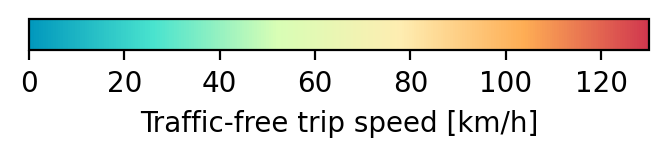
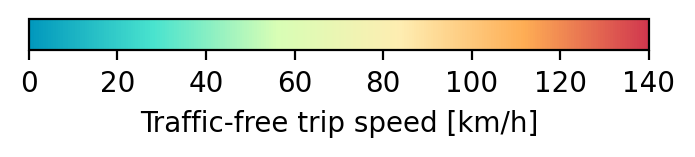
chore: update mobility data AQ4

diff --git a/app/src/config/gtif.js b/app/src/config/gtif.js
@@ -1118,64 +1118,7 @@ export const globalIndicators = [
         lastColorCode: null,
         aoi: null,
         aoiID: 'AT',
-        time: [
-          '2021-07-05T00:00:00', '2021-07-05T01:00:00', '2021-07-05T02:00:00',
-          '2021-07-05T03:00:00', '2021-07-05T04:00:00', '2021-07-05T05:00:00',
-          '2021-07-05T06:00:00', '2021-07-05T07:00:00', '2021-07-05T08:00:00',
-          '2021-07-05T09:00:00', '2021-07-05T10:00:00', '2021-07-05T11:00:00',
-          '2021-07-05T12:00:00', '2021-07-05T13:00:00', '2021-07-05T14:00:00',
-          '2021-07-05T15:00:00', '2021-07-05T16:00:00', '2021-07-05T17:00:00',
-          '2021-07-05T18:00:00', '2021-07-05T19:00:00', '2021-07-05T20:00:00',
-          '2021-07-05T21:00:00', '2021-07-05T22:00:00', '2021-07-05T23:00:00',
-          '2021-07-06T00:00:00', '2021-07-06T01:00:00', '2021-07-06T02:00:00',
-          '2021-07-06T03:00:00', '2021-07-06T04:00:00', '2021-07-06T05:00:00',
-          '2021-07-06T06:00:00', '2021-07-06T07:00:00', '2021-07-06T08:00:00',
-          '2021-07-06T09:00:00', '2021-07-06T10:00:00', '2021-07-06T11:00:00',
-          '2021-07-06T12:00:00', '2021-07-06T13:00:00', '2021-07-06T14:00:00',
-          '2021-07-06T15:00:00', '2021-07-06T16:00:00', '2021-07-06T17:00:00',
-          '2021-07-06T18:00:00', '2021-07-06T19:00:00', '2021-07-06T20:00:00',
-          '2021-07-06T21:00:00', '2021-07-06T22:00:00', '2021-07-06T23:00:00',
-          '2021-07-07T00:00:00', '2021-07-07T01:00:00', '2021-07-07T02:00:00',
-          '2021-07-07T03:00:00', '2021-07-07T04:00:00', '2021-07-07T05:00:00',
-          '2021-07-07T06:00:00', '2021-07-07T07:00:00', '2021-07-07T08:00:00',
-          '2021-07-07T09:00:00', '2021-07-07T10:00:00', '2021-07-07T11:00:00',
-          '2021-07-07T12:00:00', '2021-07-07T13:00:00', '2021-07-07T14:00:00',
-          '2021-07-07T15:00:00', '2021-07-07T16:00:00', '2021-07-07T17:00:00',
-          '2021-07-07T18:00:00', '2021-07-07T19:00:00', '2021-07-07T20:00:00',
-          '2021-07-07T21:00:00', '2021-07-07T22:00:00', '2021-07-07T23:00:00',
-          '2021-07-08T00:00:00', '2021-07-08T01:00:00', '2021-07-08T02:00:00',
-          '2021-07-08T03:00:00', '2021-07-08T04:00:00', '2021-07-08T05:00:00',
-          '2021-07-08T06:00:00', '2021-07-08T07:00:00', '2021-07-08T08:00:00',
-          '2021-07-08T09:00:00', '2021-07-08T10:00:00', '2021-07-08T11:00:00',
-          '2021-07-08T12:00:00', '2021-07-08T13:00:00', '2021-07-08T14:00:00',
-          '2021-07-08T15:00:00', '2021-07-08T16:00:00', '2021-07-08T17:00:00',
-          '2021-07-08T18:00:00', '2021-07-08T19:00:00', '2021-07-08T20:00:00',
-          '2021-07-08T21:00:00', '2021-07-08T22:00:00', '2021-07-08T23:00:00',
-          '2021-07-09T00:00:00', '2021-07-09T01:00:00', '2021-07-09T02:00:00',
-          '2021-07-09T03:00:00', '2021-07-09T04:00:00', '2021-07-09T05:00:00',
-          '2021-07-09T06:00:00', '2021-07-09T07:00:00', '2021-07-09T08:00:00',
-          '2021-07-09T09:00:00', '2021-07-09T10:00:00', '2021-07-09T11:00:00',
-          '2021-07-09T12:00:00', '2021-07-09T13:00:00', '2021-07-09T14:00:00',
-          '2021-07-09T15:00:00', '2021-07-09T16:00:00', '2021-07-09T17:00:00',
-          '2021-07-09T18:00:00', '2021-07-09T19:00:00', '2021-07-09T20:00:00',
-          '2021-07-09T21:00:00', '2021-07-09T22:00:00', '2021-07-09T23:00:00',
-          '2021-07-10T00:00:00', '2021-07-10T01:00:00', '2021-07-10T02:00:00',
-          '2021-07-10T03:00:00', '2021-07-10T04:00:00', '2021-07-10T05:00:00',
-          '2021-07-10T06:00:00', '2021-07-10T07:00:00', '2021-07-10T08:00:00',
-          '2021-07-10T09:00:00', '2021-07-10T10:00:00', '2021-07-10T11:00:00',
-          '2021-07-10T12:00:00', '2021-07-10T13:00:00', '2021-07-10T14:00:00',
-          '2021-07-10T15:00:00', '2021-07-10T16:00:00', '2021-07-10T17:00:00',
-          '2021-07-10T18:00:00', '2021-07-10T19:00:00', '2021-07-10T20:00:00',
-          '2021-07-10T21:00:00', '2021-07-10T22:00:00', '2021-07-10T23:00:00',
-          '2021-07-11T00:00:00', '2021-07-11T01:00:00', '2021-07-11T02:00:00',
-          '2021-07-11T03:00:00', '2021-07-11T04:00:00', '2021-07-11T05:00:00',
-          '2021-07-11T06:00:00', '2021-07-11T07:00:00', '2021-07-11T08:00:00',
-          '2021-07-11T09:00:00', '2021-07-11T10:00:00', '2021-07-11T11:00:00',
-          '2021-07-11T12:00:00', '2021-07-11T13:00:00', '2021-07-11T14:00:00',
-          '2021-07-11T15:00:00', '2021-07-11T16:00:00', '2021-07-11T17:00:00',
-          '2021-07-11T18:00:00', '2021-07-11T19:00:00', '2021-07-11T20:00:00',
-          '2021-07-11T21:00:00', '2021-07-11T22:00:00', '2021-07-11T23:00:00',
-        ],
+        time: getMinuteIntervals('2022-12-01T00:00:00Z', '2022-12-31T23:30:00Z', 30),
         inputData: [''],
         yAxis: '',
         highlights: [
@@ -1198,66 +1141,58 @@ export const globalIndicators = [
           },
         ],
         queryParameters: {
-          sourceLayer: 'trajectories_on_edges_austria_july',
+          sourceLayer: 'trajectories_on_edges_austria_december',
           selected: 'congestion_index',
           dataInfo: 'AQ4',
           items: [
             {
               id: 'congestion_index',
               description: 'Congestion index',
-              min: 0.5,
-              max: 3,
+              min: 0,
+              max: 100,
               colormapUsed: blgrrd,
               markdown: 'AQ4_congestion_index',
-            },
-            {
-              id: 'duration_real',
-              description: 'Real trip duration',
-              min: 0,
-              max: 3600,
-              colormapUsed: blgrrd,
-              markdown: 'AQ4_duration_real',
             },
             {
               id: 'duration',
               description: 'Traffic-free trip duration',
               min: 0,
-              max: 3600,
+              max: 240,
               colormapUsed: blgrrd,
               markdown: 'AQ4_duration',
-            },
-            {
-              id: 'speed_real',
-              description: 'Real trip speed',
-              min: 0,
-              max: 130,
-              colormapUsed: blgrrd,
-              markdown: 'AQ4_speed_real',
             },
             {
               id: 'speed',
               description: 'Traffic-free trip speed',
               min: 0,
-              max: 130,
+              max: 140,
               colormapUsed: blgrrd,
               markdown: 'AQ4_speed',
             },
-            // {
-            //   id: 'distance',
-            //   description: 'Trip distance',
-            //   min: 0,
-            //   max: 300000, // m, while legend converts to km
-            //   colormapUsed: blgrrd,
-            //   markdown: 'AQ4_distance',
-            // },
-            // {
-            //   id: 'n_trajectories',
-            //   description: 'Trajectories',
-            //   min: 0,
-            //   max: 6000,
-            //   colormapUsed: blgrrd,
-            //   markdown: 'AQ4_trajectories',
-            // },
+            {
+              id: 'distance',
+              description: 'Trip distance',
+              min: 0,
+              max: 300,
+              colormapUsed: blgrrd,
+              markdown: 'AQ4_distance',
+            },
+            {
+              id: 'n_trajectories',
+              description: 'Trajectories',
+              min: 1,
+              max: 4000,
+              colormapUsed: blgrrd,
+              markdown: 'AQ4_trajectories',
+            },
+            {
+              id: 'motorized_share',
+              description: 'Motorized trip share index',
+              min: 0,
+              max: 100,
+              colormapUsed: blgrrd,
+              markdown: 'AQ4_motorized_share',
+            },
           ],
         },
         display: {
@@ -1275,15 +1210,19 @@ export const globalIndicators = [
               if (currPar && id in store.state.indicators.selectedIndicator[dataSource]) {
                 const value = ind[dataSource][id][currPar.id];
                 const { min, max, colormapUsed } = currPar;
-                const f = clamp((value - min) / (max - min), 0, 1);
+                let f = clamp((value - min) / (max - min), 0, 1);
+                if (['n_trajectories'].includes(dataSource)) {
+                  f = clamp((Math.log10(value) - Math.log10(min))
+                    / (Math.log10(max) - Math.log10(min)), 0, 1);
+                }
                 color = colormapUsed.colors[Math.round(f * (colormapUsed.steps - 1))];
               }
             }
             return color;
           },
-          id: 'trajectories_on_edges_austria_july',
+          id: 'trajectories_on_edges_austria_december',
           adminZoneKey: 'unique_id',
-          parameters: 'unique_id,congestion_index,duration_real,duration,speed_real,speed,distance,n_trajectories',
+          parameters: 'unique_id,congestion_index,duration,speed,distance,n_trajectories,motorized_share',
           name: 'Human Mobility Patterns',
           strokeOnly: true,
           minZoom: 1,
@@ -1438,7 +1377,8 @@ export const globalIndicators = [
                 const value = ind[dataSource][id][currPar.id];
                 const { min, max, colormapUsed } = currPar;
                 // apply logarithmic scale specially for population
-                const f = clamp((Math.log10(value) - Math.log10(min)) / (Math.log10(max) - Math.log10(min)), 0, 1);
+                const f = clamp((Math.log10(value) - Math.log10(min))
+                  / (Math.log10(max) - Math.log10(min)), 0, 1);
                 color = colormapUsed.colors[Math.round(f * (colormapUsed.steps - 1))];
               }
             }

diff --git a/app/public/data/gtif/markdown/AQ4_congestion_index.md b/app/public/data/gtif/markdown/AQ4_congestion_index.md
@@ -2,15 +2,12 @@
 
 #### Congestion index
 
-**Brief description:** The Congestion index represents the ratio between the Real Trip Duration
-and Traffic-free Trip Duration, with values greater than 1 indicating congestion (trips that take
-more time to be completed with respect to the ideal case) and values close to or less than 1
-indicating an ideal travel situation.
+**Brief description:** The Congestion index represents the per cent decrease of the hourly average speed observed on the street with respect to the median speed observed during the trimester on that road which is considered the reference speed in normal conditions. Large values (i.e., a congestion index larger than ~30) highlight street congestion (that is, trips feature a lower average speed with respect to the ideal case) while smaller values indicate an ideal travel situation.
 
-**Unit:** dimensionless
+**Unit:** percentage
 
-**Value Range:** 0.5 - 3;
+**Value Range:** 0 - 100 [%];
 
-**Color Range:** linear scale [0.5, 3]
+**Color Range:** linear scale [0 - 100]
 
 ![Legend](legends/gtif/AQ4_congestion_index.png "Congestion index")

diff --git a/app/public/data/gtif/markdown/AQ4_motorized_share.md b/app/public/data/gtif/markdown/AQ4_motorized_share.md
@@ -1,0 +1,13 @@
+### Human Mobility Patterns
+
+#### Motorized trip share index
+
+**Brief description:** The Motorized trip share index displays the daily percentage of trajectories traversing a street segment that is deemed to be carried out using motorized transportation (e.g., buses, cars, motorcycles, etc.) instead of non-motorized modes (mainly by bike or foot). The classification is based on speed, duration, distance, average speed, and other spatiotemporal features.
+
+**Unit:** percentage - **daily temporal resolution and not on hourly basis**
+
+**Value Range:** 0 - 100 [%];
+
+**Color Range:** linear scale [0 - 100]
+
+![Legend](legends/gtif/AQ4_motorized_share.png "Motorized trip share index")

diff --git a/app/public/data/gtif/markdown/AQ4_duration.md b/app/public/data/gtif/markdown/AQ4_duration.md
@@ -2,9 +2,7 @@
 
 #### Traffic-free trip duration
 
-**Brief description:** The Traffic-free trip duration represents the mean travel time (in minutes)
-that it takes to go from origin to destination for all the trips passing on a street segment during a
-specific hour in a hypothetical, traffic-free scenario.
+**Brief description:** The Traffic-free trip duration represents the mean travel time (in minutes) that it takes to go from origin to destination for all the trips passing on a street segment during a specific hour in a hypothetical, traffic-free scenario.
 
 **Unit:** minutes
 

diff --git a/app/public/data/gtif/markdown/AQ4_distance.md b/app/public/data/gtif/markdown/AQ4_distance.md
@@ -1,0 +1,13 @@
+### Human Mobility Patterns
+
+#### Trip distance
+
+**Brief description:** The Trip distance displays the average total trip distance (in km) of all the trajectories that pass on a street segment during a specific hour. Higher values correspond to a significant amount of long trips passing on the street edge, whereas lower values highlight a predominance of short trips passing on the segment.
+
+**Unit:** km
+
+**Value Range:** 0 - 300 [km];
+
+**Color Range:** linear scale [0, 300]
+
+![Legend](legends/gtif/AQ4_distance.png "Trip distance")

diff --git a/app/public/data/gtif/markdown/AQ4_trajectories.md b/app/public/data/gtif/markdown/AQ4_trajectories.md
@@ -1,0 +1,13 @@
+### Human Mobility Patterns
+
+#### Trajectories count
+
+**Brief description:** The Trajectories count displays the total number of trajectories traversing a street segment during a specific hour. A trajectory is defined as a trip that a person undergoes between two consecutive stops during his daily commuting.
+
+**Unit:** #trajectories
+
+**Value Range:** 0 - 4 000 [#trajectories]
+
+**Color Range:** logarithmic scale [1 - 4000]
+
+![Legend](legends/gtif/AQ4_trajectories.png "Trajectories count")

diff --git a/app/public/data/gtif/markdown/AQ4_speed.md b/app/public/data/gtif/markdown/AQ4_speed.md
@@ -2,8 +2,7 @@
 
 #### Traffic-free trip speed
 
-**Brief description:** The Traffic-free trip speed reports the average speed [km/h] of all trajectories
-passing on a street segment during a specific hour in the traffic-free scenario.
+**Brief description:** The Traffic-free trip speed reports the average speed [km/h] of all trajectories passing on a street segment during a specific hour in the traffic-free scenario.
 
 **Unit:** km/h
 
